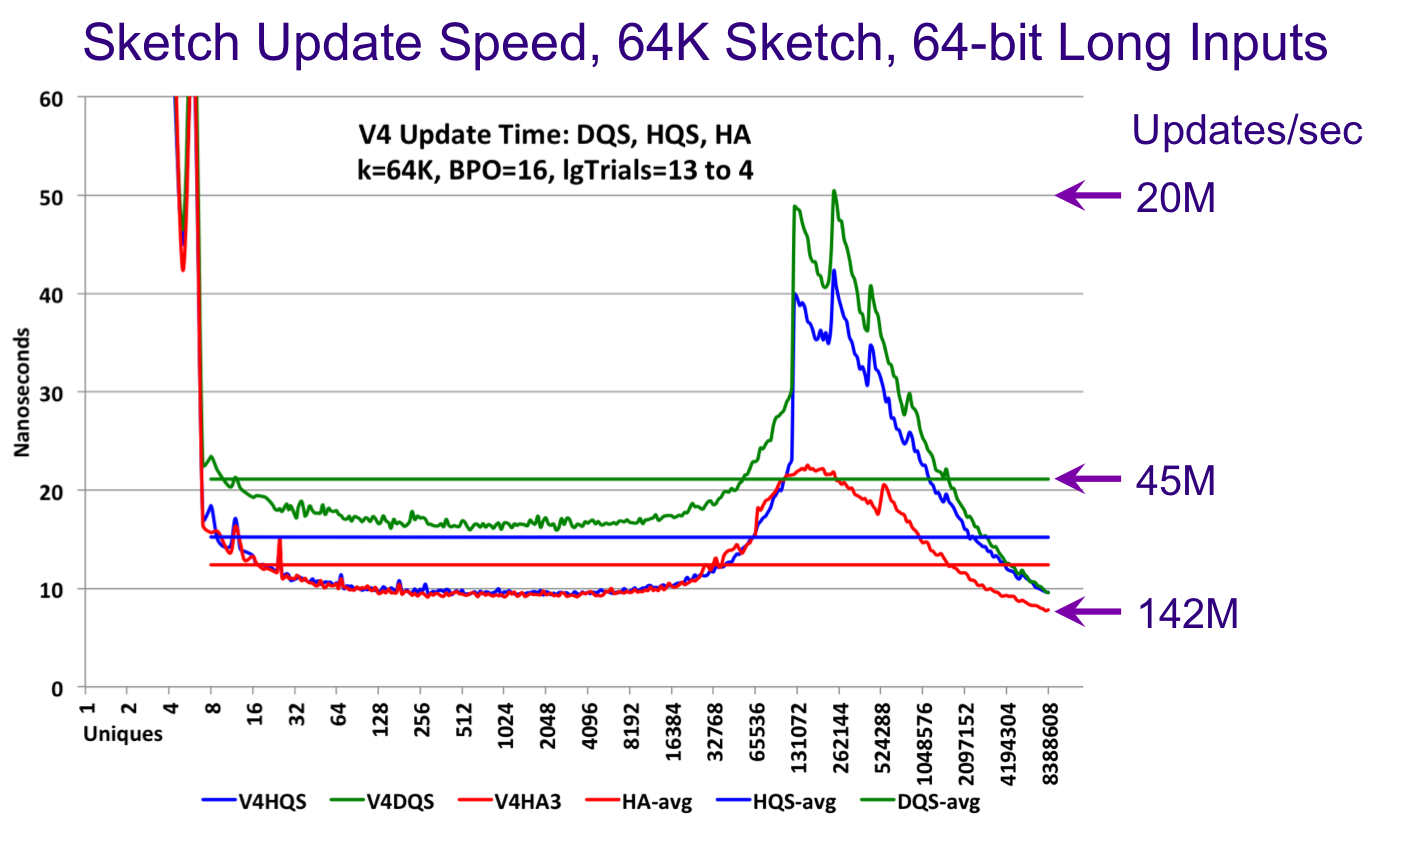
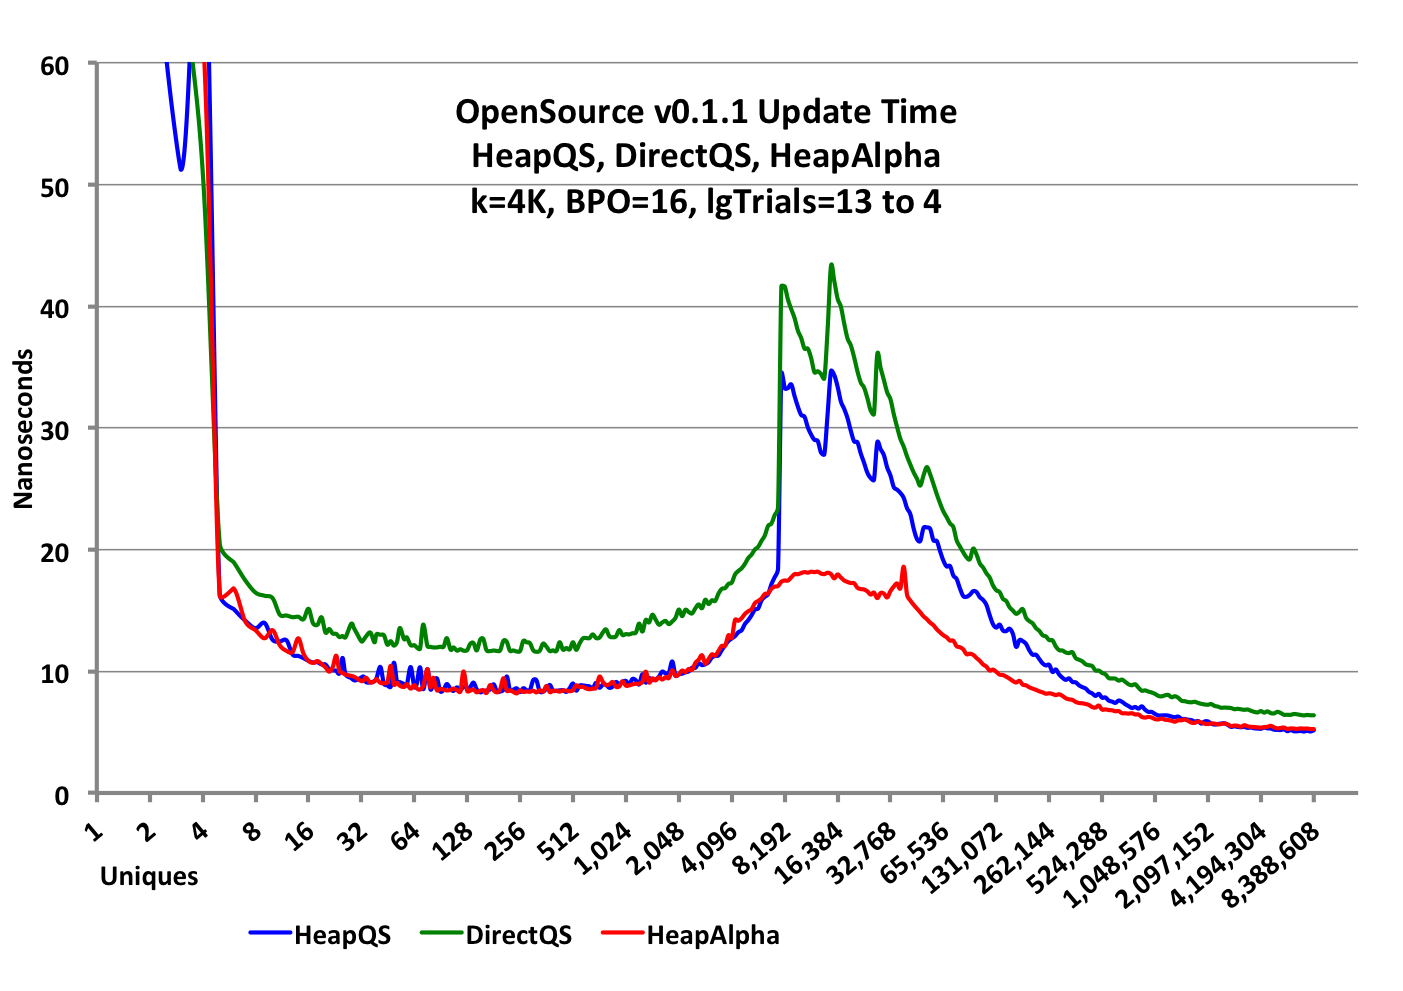
doc updates and reorg

Changed region(s): [[0.0, 0.0307, 0.9808, 0.9811], [0.7969, 0.1226, 0.9501, 0.184], [0.7356, 0.2146, 0.8582, 0.2759]]

diff --git a/css/docs.css b/css/docs.css
@@ -21,9 +21,18 @@
 }
 
 .doc-img-half {
-  display: inline-block; 
-  margin: 0 auto;
+  display: block; 
+  margin-left: auto;  
+  margin-right: auto;
   width: 400px;
+  background-repeat: no-repeat;
+}
+
+.doc-img-qtr {
+  display: block;
+  margin-left: auto;
+  margin-right: auto;
+  width: 200px;
   background-repeat: no-repeat;
 }
 

diff --git a/docs/UpdateSpeed.md b/docs/UpdateSpeed.md
@@ -1,25 +1,76 @@
 ---
 layout: doc_page
 ---
-[Back](KeyFeatures.html)
 
 ##Update Speed
-The following graph illustrates the update speed of 3 different sketches from the library:
+
+###Resize Factor = X1
+The following graph illustrates the update speed of 3 different sketches from the library: the Heap QuickSelect Sketch, the Direct QuickSelect Sketch, and the Heap Alpha Sketch.
+The X-axis is the number of unique values presented to a sketch. The Y-axis is the average time to perform an update.  It is computed as the total time to update X-uniques divided by X-uniques.
+
+The very high values prior to 4 uniques are due to Java overhead and JVM warmup.  The hump in the middle of the graph is due to the internal hash table filling up and forcing an internal rebuild and reducing theta.  For this plot the sketches were configured with <i>k</i> = 4096. 
+The peaks on the QS plots represent successive reqbuilds.  The downward slope on the right side of the hump is the sketch speeding up because it is rejecting more and more incoming hash values due to the continued reduction in the value of theta.
+The Alpha sketch uses a more advanced hash table update algorithm that defers the first rebuild until after theta has started decreasing.  This is the little spike just to the right of the hump.
+As the number of uniques continue to increase the update speed of the sketch becomes asymptotic to the speed of the hash function itself, which is about 5 nanoseconds.  
 
 <img class="doc-img-full" src="{{site.docs_img_dir}}UpdateSpeed.png" alt="UpdateSpeed" />
 
+ * The Heap Alpha Sketch (red) is the fastest sketch and primarily focused on real-time streaming environments and operates only on the Java heap.
+In this test setup and performing an "average" over all the test points from 8 to 8 million uniques the Alpha sketch update rate averages about 100 million updates per second.
+ * The Heap QuickSelect sketch (blue) is next, also on-heap, averages about 81 million updates per second.
+ * The Direct QuickSelect sketch (green) runs off-heap in direct, native memory and averages about 63 million updates per second. 
 
- * The Heap Alpha Sketch (red) is the fastest sketch and primarily focused on real-time streaming environments and operates on-heap.
-Its average update speed from 8 uniques to 8 million uniques is the straight red line and is a little over 80 million updates per second.
- * The Heap QuickSelect sketch (blue) is next, also on-heap, averages over 65 million updates per second.
- * The Direct QuickSelect sketch (green) runs off-heap in direct, native memory and averages over 47 million updates per second.
+####How this graph was generated
+The goal of this measurement was to measure the limits of how fast these sketches could update data from a continuous data stream not limited by other system overhead, string or array processing. In order to remove random noise from the plots, each point on the graph represents an average of many trials.  For the low end of the graph the number of trials per point is 2^13 or 8K. At the high end at 8 million uniques per trial the number of trials is 2^4 or 16.  
 
-###How this graph was generated
-The goal of this measurement was to measure the limits of how fast these sketches could update data from a continuous data stream not limited by other system overhead, string or array processing. In order to remove random noise from the plots, each point on the graph represents an average of many trials.  For the low end of the graph the number of trials per point is 2^13 or 8K. At the high end at 8 million uniques per trial the number of trials is 2^4 or 16.  The plots go off the top of the chart below 8 uniques per trial due to Java overhead in instantiating the class in memory and warm-up of the JIT compiler.  
+The sketches were configured with the optional <i>ResizingFactor = X1</i>, which means the internal cache was initially configured to be at full size at the start so there would not be any internal resizing of the cache during the test. See the Plot Parameters below. 
 
-As one can see from the graph, after about 64 uniques per trial, the speed of updating becomes essentially flat. As the internal hash table begins to fill up to its maximum size, specified by the chosen sketch size of 64K, the updating speed naturally slows down.  The different sketch algorithms have different strategies for managing the internal hash-table rebuilds and the Alpha Sketch is by far the fastest where it is able to defer its first rebuild until about 524K uniques as shown by the blip on the red plot.  Meanwhile, after about 128K all the sketches start filtering out input candidates by the variable sampling probability, theta.  As more and more uniques are presented to the sketch a larger fraction of the input gets filtered so the sketch speeds up and asymptocially approaches the speed of the hash function, which is about 6-7 nanoseconds.  At 8 million uniques the Alpha Sketch has reached a speed of over 142 million updates per second.
+It needs to be pointed out that these tests were designed to measure the maximum update speed under ideal conditions so "your mileage may vary"!
+Very few systems would actually be able to feed a single sketch at this rate so these plots represent an upper bound and not realistic update rates in more complex systems environments. Nonetheless, this demonstrates that the sketches would consume very little of an overall system's budget for updating, if there was one, and are quite suitable for real-time streams.
 
-Very few systems would actually be able to feed a single sketch at this rate so these rates represent an upper bound and not realistic system update rates. Nonetheless, this demonstrates that the sketches would consume very little of an overall system's budget for updating, if there was one.
+The graphs on this page were generated using the SketchPerformance program in the com.yahoo.sketches.theta package as part of the test hierarchy. 
+There is more documentation with the code.
+
+####Plot Parameters
+Note: the prefix "lg" is shorthand notation for Log\_base\_2.
+
+Sketch Profile |
+---------------|------------
+lgK, (K)  | 12, (4096)
+Family  | ALPHA or QUICKSELECT
+ResizeFactor | X1
+Direct  | True or False
+
+Trials Profile |
+---------------|------------
+lgMinTrials  | 4
+lgMaxTrials  | 13
+lgMaxU       | 23
+PPO          | 16
+
+###Resize Factors = X1, X2 and X8
+To illustrate how the the optional <i>Resize Factor</i> affects performance refer to the following graph.  All three plots were generated using the Heap QuickSelect Sketch but with different Resize Factors.
+
+<img class="doc-img-full" src="{{site.docs_img_dir}}UpdateSpeedWithRF.png" alt="UpdateSpeedWithRF" />
+
+* The blue curve is the same as the blue curve in the graph at the top of this page. 
+It was generated with <i>ResizeFactor = X1</i>, which means the sketch cache was initially created at full size, thus there is no resizing of the cache during the life of the sketch.  (There will be <i>rebuilding</i> but not resizing.)
+* The red curve is the same sketch but configured with <i>ResizeFactor = X2</i>, which means the sketch cache is initially created at a small size (enough for about 16 entries), and then when the sketch needs more space for the cache, it is resized by a factor of 2. Each of these resize events are clearly seen in the plot as sharp spikes in the speed performance where the sketch must pause to resize and reconstruct the hash table in the new cache.  These spikes fall at factors of 2 along the X-axis (with the exception of the last interval, which is a factor of 4 for reasons too complicated to explain here.)
+* The green curve is the same sketch but configured with <i>ResizeFactor = X8</i>.  An RF = X4 is also available but not shown.  
+
+As one would expect the overall speed of the RF = X2 sketch is slower than the RF = X1 sketch and the RF = X8 sketch is inbetween due to the amount of time the sketch spends in resizing the cache.
+
+The tradeoff here is the classic memory size versus speed.  Suppose you have millions of sketches that need to be allocated and your input data is highly skewed (as is often the case).  Most of the sketches will only have a few entries and only a small fraction of all the sketches will actually go into estimation mode and require a full-sized cache.  The Resize Factor option allows a memory allocation that would be orders of magnitude smaller than would be required if all the sketches had to be allocated at full size.  The default Resize Factor is X8, which is a nice compromise between X1 and X2.
+
+####Plot Parameters
+
+Sketch Profile |
+---------------|------------
+LgK, (K)  | 12, (4096)
+Family  | QUICKSELECT
+ResizeFactor | X1, X2 or X8
+Direct  | False
+
 
 ###Measurement System
   Model Name:	MacBook Pro<br>
@@ -31,5 +82,3 @@ Very few systems would actually be able to feed a single sketch at this rate so 
   L2 Cache (per Core):	256 KB<br>
   L3 Cache:	6 MB<br>
   Memory:	16 GB 1600 MHz DDR3
-
-[Back](KeyFeatures.html)

diff --git a/docs/Accuracy.md b/docs/Accuracy.md
@@ -2,32 +2,19 @@
 layout: doc_page
 ---
 
-#Accuracy
-
 ##Basic Sketch Accuracy
-There are three fundamentally different sketch families in this library.  When constructed with the default options (except for <i>k</i> or <i>Nominal Entries</i>), the accuracy behavior should be similar to the following:
 
-<img class="doc-img-half" src="{{site.docs_img_dir}}QSError.png" alt="QSError" /> 
-<img class="doc-img-half" src="{{site.docs_img_dir}}AlphaError.png" alt="AlphaError" /> 
+Sketch accuracy is usually measured in terms of Relative Error (<i>RE = Measured/Truth -1</i>).  Sketches are stochastic processes and the estimates produced are random variables that have a probability distribution that is close to the familiar Gaussian, which looks like the following.
 
+<img class="doc-img-qtr" src="{{site.docs_img_dir}}Normal2.png" alt="Normal2" />
 
-The above "pitchfork" plot illustrates the error behavior of the Alpha sketch family.  This sketch was configured with a size of 16K entries, otherwise the defaults.
-The X-axis is the number of uniques fed to the sketch and the Y-axis is the estimation error as a percent relative to the true answer.  The black line is the mean. The purple and green lines are +/- 1 standard deviation, which correspond to the 68% confidence bounds.  The blue and red lines are +/- 2 standard deviations, which correspond to the 95% confidence bounds.
+The Estimate is at the mean and median of the distribution.  +/- one standard deviation (SD) in terms 
+of Relative Error is called the <i>Relative Standard Error (RSE)</i>. The area or mass of the distribution betweeen +/- 1 RSE is 68.27% and is referred to as the <i>confidence</i> interval. +/- 2 RSE corresponds to a confidence interval of 95.4%. 
 
-Note that the sketch returns the exact answer up to 16K uniques and after that the error gradually increases and then becomes asymptotic to 1/sqrt(2k).
-
+There are three fundamentally different sketch families in this library: the <i>QuickSelect</i>, <i>Alpha</i> and <i>HLL</i> families. The QuickSelect family is the default. 
 
 
 
-
-
-
-
-
-
-When performing union operations with first generation sketches there will not be any degredation of error.  For example, if you build a thousand sketches of size k=4096 from raw data, the union of all of these sketches will have the same RSE as the original sketches, which is about 1.6%.
-
-However, if you perform a union of sketches produced from the intersection or difference operations, or from sketches produced with smaller <i>k</i> configurations, the RSE will be dominated by the RSE of these later sketches.
 
 
 

diff --git a/docs/AccuracyPlots.md b/docs/AccuracyPlots.md
@@ -1,0 +1,23 @@
+---
+layout: doc_page
+---
+
+##Accuracy Plots 
+
+When constructed with the default options (except for <i>k</i> or <i>Nominal Entries</i>), the accuracy behavior should be similar to the following:
+
+<img class="doc-img-half" src="{{site.docs_img_dir}}QS4KError.png" alt="QS4KError" /> 
+<img class="doc-img-half" src="{{site.docs_img_dir}}QS4KErrorRebuild.png" alt="QS4KErrorRebuild" />
+<img class="doc-img-half" src="{{site.docs_img_dir}}Alpha4KError.png" alt="Alpha4KError" /> 
+
+
+The above "pitchfork" plot illustrates the error behavior of the Alpha sketch family.  This sketch was configured with a size of 16K entries, otherwise the defaults.
+The X-axis is the number of uniques fed to the sketch and the Y-axis is the estimation error as a percent relative to the true answer.  The black line is the mean. The purple and green lines are +/- 1 standard deviation, which correspond to the 68% confidence bounds.  The blue and red lines are +/- 2 standard deviations, which correspond to the 95% confidence bounds.
+
+Note that the sketch returns the exact answer up to 16K uniques and after that the error gradually increases and then becomes asymptotic to 1/sqrt(2k).
+
+
+
+When performing union operations with first generation sketches there will not be any degredation of error.  For example, if you build a thousand sketches of size k=4096 from raw data, the union of all of these sketches will have the same RSE as the original sketches, which is about 1.6%.
+
+However, if you perform a union of sketches produced from the intersection or difference operations, or from sketches produced with smaller <i>k</i> configurations, the RSE will be dominated by the RSE of these later sketches.

diff --git a/docs/KMVupdateVkth.md b/docs/KMVupdateVkth.md
@@ -19,8 +19,8 @@ We now have a complete <i>KMV</i> sketch, with some amazing properties:
 * The sketch has a fixed upper bound size of <i>k</i> values.
 * De-duplication is part of the algorithm.
 * If the sketch has retained less than <i>k</i> values, the resulting estimate is exact and is just the count of the values in the cache.  Otherwise, the unbiased estimate of the unique values seen by the sketch is <i>(k-1)/V(k<sup>th</sup>)</i>[1].
-* The <i>Relative Standard Error</i> or <i>RSE</i> of the estimate is &le; <i>1/sqrt(k-2)</i>[1],
-which is a constant and independent of <i>n</i>, the number of uniques presented to the sketch.
+* The <i>Relative Standard Error</i> or <i>RSE</i> of the estimate, for this simple KMV Sketch, is &le; <i>1/sqrt(k-2)</i>[1],
+which is a constant and independent of <i>n</i>, the number of uniques presented to the sketch (See [Accuracy.html](Accuracy)).
 For large enough values of <i>k</i> the error distribution is roughly Gaussian, which makes preditions of confidence intervals relatively straightforward.
 
 To figure out what value of <i>k</i> is required, you must first determine what level of accuracy is required for your application.  The graph below can serve as a guide.

diff --git a/docs/KeyFeatures.md b/docs/KeyFeatures.md
@@ -3,7 +3,7 @@ sectionid: overview
 layout: doc_page
 ---
 
-<h3><i>Data Sketches</i> is a Java software library of <a href="SketchOrigins.html">sketch</a> algorithms and related software APIs that provide   a comprehensive basis for the analysis of sets of unique identifiers in the context of big data.</h3>
+<h3><i>Data Sketches</i> is a Java software library of <a href="SketchOrigins.html">sketch</a> algorithms and related APIs that provide a comprehensive basis for the analysis of sets of unique identifiers in the context of big data.</h3>
 
 <h2>Key Features</h2>
 
@@ -50,7 +50,7 @@ layout: doc_page
 
 <h3>Robust, High Quality Implementations.</h3>
 * Extensive test code leveraging <a href="http://testng.org">TestNG</a>.
-* Code coverage is > 95% as measured by <a href="https://www.atlassian.com/software/clover/overview">Clover</a>.
+* Test Code coverage is > 95% as measured by <a href="https://www.atlassian.com/software/clover/overview">Atlassian Clover</a>.
 * Comprehensive Javadocs that satisfy <a href="http://www.oracle.com/technetwork/java/index.html">Java JDK8</a> standards.
 * Suitable for production environments.
 

diff --git a/docs/ThetaSketchFramework.md b/docs/ThetaSketchFramework.md
@@ -1,8 +1,6 @@
 ---
 layout: doc_page
 ---
-[Prev](KMVupdateVkth.html)<br>
-[Next](ThetaSketchSetOps.html)
 
 #Theta Sketch Framework
 The <a href="ThetaSketchFramework.pdf">Theta Sketch Framework</a> (TSF) is a mathematical framework 
@@ -41,5 +39,3 @@ We will discuss the RSE in a later section.
 
 [1] This is a limited "KMV perspective" on how <i>&theta;</i> gets assigned.  The attached paper <a href="ThetaSketchFramework.pdf">Theta Sketch Framework</a> presents multiple ways that <i>&theta;</i> can be assigned using the <i>Theta Choosing Function (TCF)</i>.  Different sketch algorithms have different TCFs.  
 
-[Prev](KMVupdateVkth.html)<br>
-[Next](ThetaSketchSetOps.html)

diff --git a/docs/ThetaSketchSetOps.md b/docs/ThetaSketchSetOps.md
@@ -1,8 +1,6 @@
 ---
 layout: doc_page
 ---
-[Prev](ThetaSketchFramework.html)<br>
-[Next](HLL.html)
 
 #Theta Sketch Set Operations
 The Theta Sketch definition enables a uniform and simplified approach to performing the three standard set operations, <i>Union</i> (&#8746;), <i>Intersection</i> (&#8745;) and <i>Difference</i> (\\).
@@ -14,8 +12,3 @@ The diagram below illustrates how the Intersection operation can be performed by
 The fact that set operations produce sketches as results enables full set expressions, such as<br>
  ((A &#8746; B) &#8745; (C &#8746; D))\\(E &#8746; F).
 
-
-
-
-[Prev](ThetaSketchFramework.html)<br>
-[Next](HLL.html)

diff --git a/docs/CompactStorage.md b/docs/CompactStorage.md
@@ -1,7 +1,7 @@
 ---
 layout: doc_page
 ---
-[Back](Features.html)
+
 
 #Compact Binary Storage
 Sketches can be instantiated in two primary forms.  Both of these forms can be instantiated either in the Java heap or in direct, off-heap memory using the Memory package.
@@ -14,5 +14,3 @@ Once the updating of a sketch is completed the HT is no longer needed, so the sk
 
 * <b>The most compact of all</b>
 This library also has an advanced implementation of Flajolet's HLL sketch that consumes only <i>k/2</i> bytes, which is up to 16 times smaller than the Theta Sketches.
-
-[Back](Features.html)

diff --git a/docs/ConfidenceIntervals.md b/docs/ConfidenceIntervals.md
@@ -1,9 +1,9 @@
 ---
 layout: doc_page
 ---
-[Back]()
 
-<h3>Confidence Intervals</h3>
+
+<h3>Confidence Intervals, Notes</h3>
 1. The Theta Sketches within the DataSketches Library provide Frequentist Confidence Intervals based on the tails of the Binomial Distribution.
 
 2. These bounds are only approximate, but we provide a guarantee
@@ -89,5 +89,3 @@ layout: doc_page
     the estimate.
 
 Also see the <a href="ThetaSketchFramework.pdf">Theta Sketch Framework</a> paper.
-
-[Back]()

diff --git a/docs/MergeSpeed.md b/docs/MergeSpeed.md
@@ -1,7 +1,7 @@
 ---
 layout: doc_page
 ---
-[Back](Features.html)
+
 
 ##System Merge Speed
 The following graph illustrates the speed of merging millions of sketches in a large system environment.
@@ -15,4 +15,3 @@ This system had already built millions of sketches in a "sketch mart" of million
 ###Measurement Systems
 A cluster of typical data-center class systems.
 
-[Back](Features.html)

diff --git a/docs/HLL.md b/docs/HLL.md
@@ -1,8 +1,6 @@
 ---
 layout: doc_page
 ---
-[Prev](ThetaSketchSetOps.html)<br>
-[Next](Accuracy.html)
 
 #HLL Sketch[1]
 The hll package contains a very compact implementation of Phillipe Flajolet's
@@ -34,8 +32,3 @@ HLL sketches cannot be intermixed or merged in any way with Theta Sketches.
 
 
 #####[1] Coming Soon!
-
-
-
-[Prev](ThetaSketchSetOps.html)<br>
-[Next](Accuracy.html)
